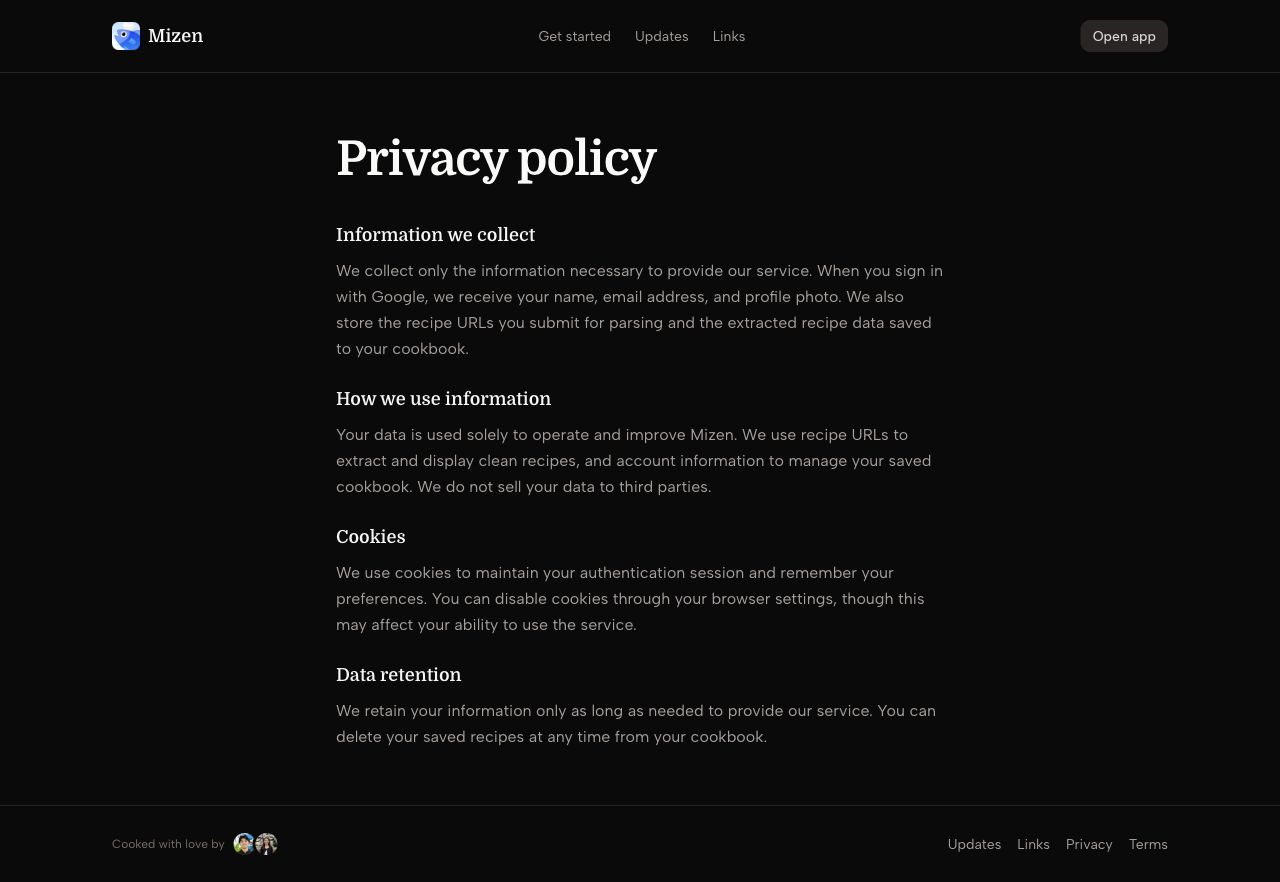
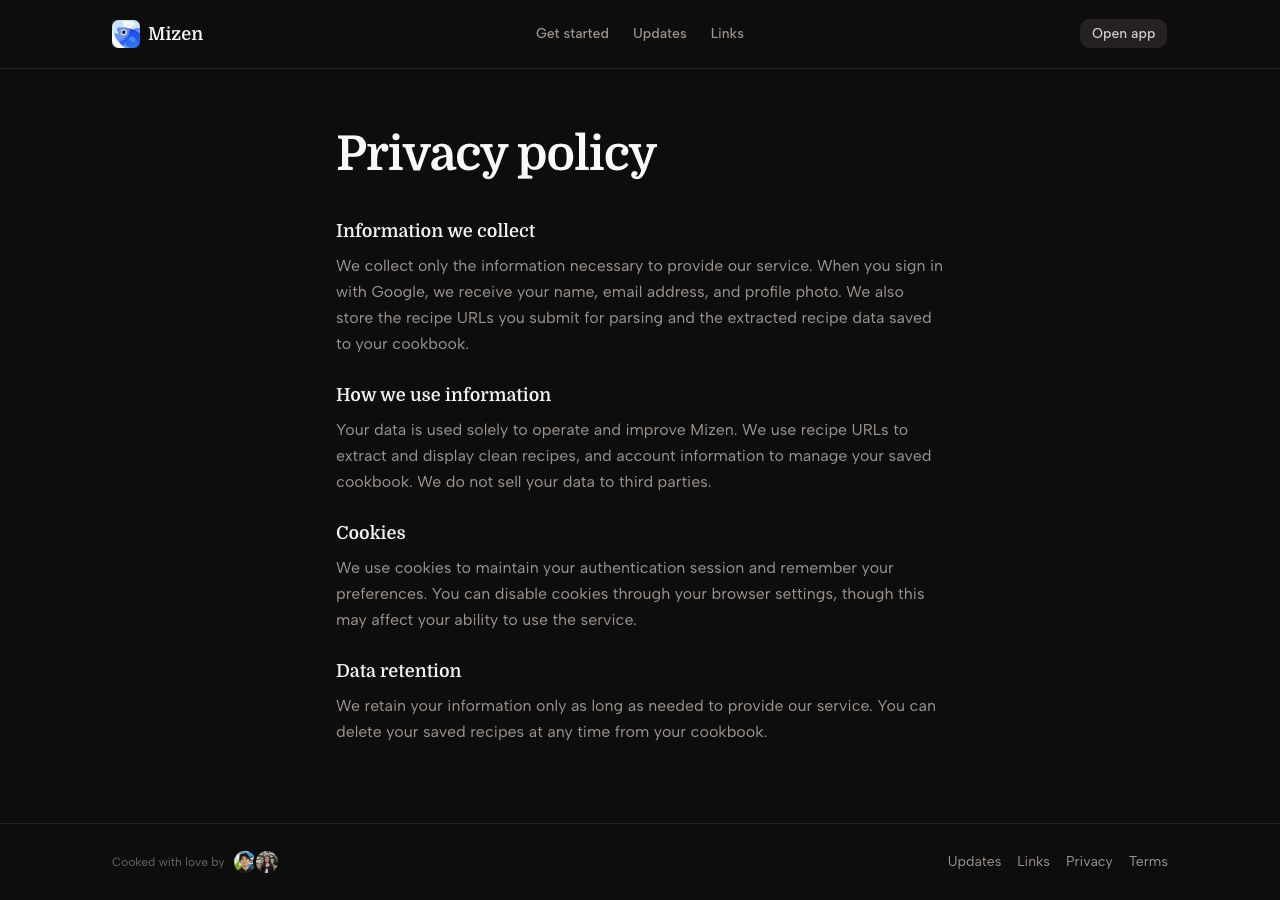
Keep public navigation stable between pages

diff --git a/src/components/PublicPage.tsx b/src/components/PublicPage.tsx
@@ -22,7 +22,7 @@ const publicNavigation = [
 export function PublicBrand() {
   return (
     <Link
-      href="/"
+      href="/homepage"
       className="flex shrink-0 items-center gap-2 rounded-md font-serif text-lg font-semibold text-stone-900 focus-visible:outline-2 focus-visible:outline-offset-4 focus-visible:outline-mizen-blue dark:text-stone-50 transition-none"
     >
       <Image
@@ -41,7 +41,7 @@ export function PublicPage({ children, className }: { children: ReactNode; class
   return (
     <div
       className={cn(
-        "landing-scroll flex min-h-screen min-w-0 flex-col bg-white text-stone-900 dark:bg-[var(--color-dark-surface)] dark:text-stone-100",
+        "landing-scroll flex min-h-0 min-w-0 flex-1 flex-col bg-white text-stone-900 dark:bg-[var(--color-dark-surface)] dark:text-stone-100",
         className
       )}
     >
@@ -63,13 +63,13 @@ export function PublicHeader({
         className={cn(
           publicPageContainer,
           publicPageWidths.wide,
-          "grid grid-cols-2 items-center gap-x-6 gap-y-4 py-4 sm:grid-cols-[auto_1fr_auto] sm:py-5"
+          "grid grid-cols-2 items-center gap-x-6 gap-y-4 py-4 sm:grid-cols-[minmax(0,1fr)_auto_minmax(0,1fr)] sm:py-5"
         )}
       >
         <PublicBrand />
         <nav
           aria-label="Public pages"
-          className="order-3 col-span-2 flex flex-wrap items-center gap-6 sm:order-none sm:col-span-1 sm:justify-center"
+          className="order-3 col-span-2 flex flex-wrap items-center gap-6 sm:order-none sm:col-span-1 font-medium sm:justify-center"
         >
           {publicNavigation.map(({ href, label }) => (
             <Link
@@ -78,17 +78,18 @@ export function PublicHeader({
               aria-current={currentPath === href ? "page" : undefined}
               className={cn(
                 publicLink,
-                currentPath === href && "font-medium text-stone-900 dark:text-stone-100"
+                currentPath === href && "text-stone-900 dark:text-stone-100"
               )}
             >
               {label}
             </Link>
           ))}
         </nav>
-        <div className="justify-self-end">
+        <div className="min-h-7 min-w-[88px] justify-self-end">
           {action ?? (
             <Link
               href="/"
+              prefetch={false}
               className="inline-flex rounded-lg bg-stone-100 px-3 py-1.5 font-sans text-sm font-medium text-stone-600 hover:bg-stone-200 focus-visible:outline-2 focus-visible:outline-offset-4 focus-visible:outline-mizen-blue dark:bg-stone-800 dark:text-stone-300 dark:hover:bg-stone-700 transition-none"
             >
               Open app

diff --git a/src/proxy.test.ts b/src/proxy.test.ts
@@ -2,6 +2,7 @@ import { describe, expect, it, vi, beforeEach } from "vitest";
 import { type NextRequest, NextResponse } from "next/server";
 import { proxy, shouldRedirectOAuthRootCallback } from "./proxy";
 import { updateSession } from "@/lib/supabase/middleware";
+import { PUBLIC_PAGE_PATHS } from "@/lib/public-pages";
 
 vi.mock("@/lib/supabase/middleware", () => ({
   updateSession: vi.fn(),
@@ -46,7 +47,7 @@ describe("shouldRedirectOAuthRootCallback", () => {
 });
 
 describe("proxy", () => {
-  it.each(["/privacy", "/terms", "/privacy?source=settings", "/terms?source=footer"])(
+  it.each(PUBLIC_PAGE_PATHS.flatMap((path) => [path, `${path}?source=navigation`]))(
     "serves %s without looking up a session",
     async (path) => {
       const response = await proxy(createRequest(`https://example.com${path}`) as never);
@@ -57,14 +58,18 @@ describe("proxy", () => {
     }
   );
 
-  it.each(["/privacy/private", "/terms-of-service", "/cookbook"])(
-    "keeps the session flow for %s",
-    async (path) => {
-      vi.mocked(updateSession).mockResolvedValue(NextResponse.next());
-      await proxy(createRequest(`https://example.com${path}`) as never);
-      expect(updateSession).toHaveBeenCalledOnce();
-    }
-  );
+  it.each([
+    "/privacy/private",
+    "/terms-of-service",
+    "/cookbook",
+    "/",
+    "/api/recipes",
+    "/auth/callback",
+  ])("keeps the session flow for %s", async (path) => {
+    vi.mocked(updateSession).mockResolvedValue(NextResponse.next());
+    await proxy(createRequest(`https://example.com${path}`) as never);
+    expect(updateSession).toHaveBeenCalledOnce();
+  });
 
   it("redirects root OAuth callback traffic to /auth/callback preserving query params", async () => {
     const request = createRequest("https://example.com/?code=abc&state=xyz");

diff --git a/src/app/(public)/get-started/page.tsx b/src/app/(public)/get-started/page.tsx
@@ -2,13 +2,10 @@
 
 import { useState } from "react";
 import Image from "next/image";
-import { BetaAuthModal } from "@/components/BetaAuthModal";
 import { ImageLightbox } from "@/components/ImageLightbox";
-import { LandingAuthCta } from "@/components/LandingAuthCta";
 import { ReleaseNotice } from "@/components/ReleaseNotice";
 import {
   PublicPage,
-  PublicHeader,
   PublicPageTitle,
   PublicFooter,
   publicPageContainer,
@@ -16,7 +13,6 @@ import {
 } from "@/components/PublicPage";
 import { cn } from "@/lib/utils";
 import { appVersion } from "@/lib/app-version";
-import { isSupabaseConfigured } from "@/lib/supabase/is-configured";
 
 const DISCORD_URL = "https://discord.gg/Pt4t8K8h9";
 const BEEF_UDON_URL = "https://www.justonecookbook.com/beef-udon/";
@@ -85,7 +81,6 @@ const steps = [
 ];
 
 function GetStartedPageContent() {
-  const [authOpen, setAuthOpen] = useState(false);
   const [copied, setCopied] = useState(false);
   const [lightbox, setLightbox] = useState<{
     src: string;
@@ -97,10 +92,6 @@ function GetStartedPageContent() {
   return (
     <>
       <PublicPage>
-        <PublicHeader
-          currentPath="/get-started"
-          action={<LandingAuthCta onSignIn={() => setAuthOpen(true)} />}
-        />
         <main className={cn(publicPageContainer, publicPageWidths.wide, "flex-1 py-10 sm:py-14")}>
           <section className="max-w-[720px]">
             <PublicPageTitle>Get started with Mizen</PublicPageTitle>
@@ -227,7 +218,6 @@ function GetStartedPageContent() {
         </PublicFooter>
       </PublicPage>
 
-      {isSupabaseConfigured && <BetaAuthModal open={authOpen} onOpenChange={setAuthOpen} />}
       {lightbox && (
         <ImageLightbox
           src={lightbox.src}

diff --git a/src/components/LinksPageContent.tsx b/src/components/LinksPageContent.tsx
@@ -6,11 +6,8 @@ import Link from "next/link";
 import { toast } from "sonner";
 import AltArrowRight from "@solar-icons/react/csr/arrows/AltArrowRight";
 import Plain from "@solar-icons/react/csr/messages/Plain";
-import { BetaAuthModal } from "@/components/BetaAuthModal";
-import { LandingAuthCta } from "@/components/LandingAuthCta";
 import {
   PublicPage,
-  PublicHeader,
   PublicPageTitle,
   PublicFooter,
   publicPageContainer,
@@ -18,7 +15,6 @@ import {
 } from "@/components/PublicPage";
 import { cn } from "@/lib/utils";
 import { favoriteRecipes } from "@/lib/favorite-recipes";
-import { isSupabaseConfigured } from "@/lib/supabase/is-configured";
 
 const connectCards = [
   {
@@ -42,7 +38,6 @@ const connectCards = [
 ];
 
 export function LinksPageContent() {
-  const [authOpen, setAuthOpen] = useState(false);
   const [email, setEmail] = useState("");
   const [submitting, setSubmitting] = useState(false);
   const [submitted, setSubmitted] = useState(false);
@@ -81,10 +76,6 @@ export function LinksPageContent() {
   return (
     <>
       <PublicPage>
-        <PublicHeader
-          currentPath="/links"
-          action={<LandingAuthCta onSignIn={() => setAuthOpen(true)} />}
-        />
         <main
           className={cn(publicPageContainer, publicPageWidths.compact, "flex-1 py-10 sm:py-14")}
         >
@@ -234,8 +225,6 @@ export function LinksPageContent() {
         </main>
         <PublicFooter />
       </PublicPage>
-
-      {isSupabaseConfigured && <BetaAuthModal open={authOpen} onOpenChange={setAuthOpen} />}
     </>
   );
 }

diff --git a/src/app/page.tsx b/src/app/page.tsx
@@ -439,7 +439,7 @@ export default function HomePage() {
   return <WaitlistLanding />;
 }
 
-export function WaitlistLanding() {
+export function WaitlistLanding({ showHeader = true }: { showHeader?: boolean }) {
   const [activeSource, setActiveSource] = useState(0);
   const [displayedSource, setDisplayedSource] = useState(0);
   const [displayedPreview, setDisplayedPreview] = useState(0);
@@ -542,11 +542,19 @@ export function WaitlistLanding() {
 
   return (
     <>
-      <PublicPage className="lg:h-screen lg:overflow-hidden">
-        <PublicHeader
-          currentPath="/"
-          action={<LandingAuthCta onSignIn={() => setAuthOpen(true)} />}
-        />
+      <PublicPage
+        className={
+          showHeader
+            ? "lg:h-screen lg:overflow-hidden"
+            : "lg:h-[calc(100dvh-69px)] lg:flex-none lg:overflow-hidden"
+        }
+      >
+        {showHeader && (
+          <PublicHeader
+            currentPath="/"
+            action={<LandingAuthCta onSignIn={() => setAuthOpen(true)} />}
+          />
+        )}
         <main className="flex min-h-0 flex-1 flex-col lg:flex-row">
           {/* Left panel */}
           <div className="relative flex flex-col justify-between lg:w-[38%] px-8 lg:px-12 xl:px-16 pt-12 lg:pt-5 pb-8 lg:pb-10 bg-white dark:bg-stone-950">

diff --git a/src/app/layout.tsx b/src/app/layout.tsx
@@ -3,6 +3,7 @@ import { Domine, Albert_Sans } from "next/font/google";
 import { Agentation } from "agentation";
 import { DialRoot } from "dialkit";
 import { AppShell } from "@/components/AppShell";
+import { PUBLIC_PAGE_PATHS } from "@/lib/public-pages";
 import { developerFeedbackToolsEnabled } from "@/lib/features";
 import { Toaster } from "@/components/ui/sonner";
 import { ThemeSync } from "@/components/ThemeSync";
@@ -54,7 +55,7 @@ export default function RootLayout({
         />
         <script
           dangerouslySetInnerHTML={{
-            __html: `(function(){try{if(location.pathname==='/privacy'||location.pathname==='/terms')return;if(localStorage.getItem('mizen:core-app-seen')==='true'&&sessionStorage.getItem('mizen:splash-seen')!=='true'){document.documentElement.dataset.earlySplash='true'}}catch(e){}})()`,
+            __html: `(function(){try{if(${JSON.stringify(PUBLIC_PAGE_PATHS)}.includes(location.pathname))return;if(localStorage.getItem('mizen:core-app-seen')==='true'&&sessionStorage.getItem('mizen:splash-seen')!=='true'){document.documentElement.dataset.earlySplash='true'}}catch(e){}})()`,
           }}
         />
       </head>

diff --git a/src/components/LandingAuthCta.tsx b/src/components/LandingAuthCta.tsx
@@ -18,7 +18,18 @@ export function LandingAuthCta({
 }: LandingAuthCtaProps) {
   const { user, loading } = useUser();
 
-  if (!isSupabaseConfigured || loading) return null;
+  if (!isSupabaseConfigured) return null;
+  if (loading) {
+    return (
+      <span
+        aria-hidden="true"
+        className={cn(
+          "inline-block h-8 w-[88px] rounded-lg bg-stone-100 dark:bg-stone-800",
+          className
+        )}
+      />
+    );
+  }
 
   const ctaClassName = cn(
     "px-3 py-1.5 rounded-lg bg-stone-100 dark:bg-stone-800 font-sans text-sm font-medium text-stone-600 dark:text-stone-300 hover:bg-stone-200 dark:hover:bg-stone-700 transition-none",
@@ -27,7 +38,7 @@ export function LandingAuthCta({
 
   if (user) {
     return (
-      <Link href="/" className={ctaClassName}>
+      <Link href="/" prefetch={false} className={ctaClassName}>
         {signedInLabel}
       </Link>
     );

diff --git a/src/proxy.ts b/src/proxy.ts
@@ -1,7 +1,7 @@
 import { type NextRequest } from "next/server";
 import { updateSession } from "@/lib/supabase/middleware";
 import { NextResponse } from "next/server";
-import { isPublicLegalPage } from "@/lib/public-legal-pages";
+import { isPublicPage } from "@/lib/public-pages";
 
 export function shouldRedirectOAuthRootCallback(request: Pick<NextRequest, "method" | "nextUrl">) {
   return (
@@ -21,8 +21,8 @@ export async function proxy(request: NextRequest) {
     return NextResponse.redirect(url);
   }
 
-  // Legal documents are public and do not need a session refresh.
-  if (isPublicLegalPage(request.nextUrl.pathname)) return NextResponse.next();
+  // Standalone public pages do not read protected data or need a session refresh.
+  if (isPublicPage(request.nextUrl.pathname)) return NextResponse.next();
 
   return await updateSession(request);
 }

diff --git a/src/components/AppShell.test.tsx b/src/components/AppShell.test.tsx
@@ -2,6 +2,7 @@ import React from "react";
 import { renderToStaticMarkup } from "react-dom/server";
 import { describe, expect, it, vi } from "vitest";
 import { AppShell } from "./AppShell";
+import { PUBLIC_PAGE_PATHS } from "@/lib/public-pages";
 
 const { route, useUser } = vi.hoisted(() => ({
   route: { pathname: "/privacy" },
@@ -24,7 +25,7 @@ vi.mock("@/components/SearchCommandModal", () => ({ SearchCommandModal: () => nu
 vi.mock("@/components/SplashScreen", () => ({ SplashScreen: () => null }));
 
 describe("public legal pages", () => {
-  it.each(["/privacy", "/terms"])("renders %s outside the session and recipe flow", (pathname) => {
+  it.each(PUBLIC_PAGE_PATHS)("renders %s outside the session and recipe flow", (pathname) => {
     route.pathname = pathname;
     const html = renderToStaticMarkup(
       <AppShell>

diff --git a/src/components/AppShell.tsx b/src/components/AppShell.tsx
@@ -10,7 +10,7 @@ import { MobileScreenTransition } from "@/components/MobileScreenTransition";
 import { SearchCommandModal } from "@/components/SearchCommandModal";
 import { SplashScreen } from "@/components/SplashScreen";
 import { cn } from "@/lib/utils";
-import { isPublicLegalPage } from "@/lib/public-legal-pages";
+import { isPublicPage } from "@/lib/public-pages";
 import SidebarMinimalistic from "@solar-icons/react/csr/it/SidebarMinimalistic";
 import type { ReactNode } from "react";
 
@@ -33,7 +33,7 @@ export function useSidebar(): SidebarContextValue {
 
 export function AppShell({ children }: { children: ReactNode }) {
   const pathname = usePathname();
-  if (isPublicLegalPage(pathname)) return children;
+  if (isPublicPage(pathname)) return children;
 
   return <SessionAppShell>{children}</SessionAppShell>;
 }

diff --git a/src/components/PublicSiteHeader.tsx b/src/components/PublicSiteHeader.tsx
@@ -1,0 +1,23 @@
+"use client";
+
+import { useState } from "react";
+import { usePathname } from "next/navigation";
+import { PublicHeader } from "@/components/PublicPage";
+import { LandingAuthCta } from "@/components/LandingAuthCta";
+import { BetaAuthModal } from "@/components/BetaAuthModal";
+import { isSupabaseConfigured } from "@/lib/supabase/is-configured";
+
+export function PublicSiteHeader() {
+  const pathname = usePathname();
+  const [authOpen, setAuthOpen] = useState(false);
+
+  return (
+    <>
+      <PublicHeader
+        currentPath={pathname}
+        action={<LandingAuthCta onSignIn={() => setAuthOpen(true)} />}
+      />
+      {isSupabaseConfigured && <BetaAuthModal open={authOpen} onOpenChange={setAuthOpen} />}
+    </>
+  );
+}

diff --git a/src/app/(public)/changelog/page.tsx b/src/app/(public)/changelog/page.tsx
@@ -1,7 +1,6 @@
 import Image from "next/image";
 import {
   PublicPage,
-  PublicHeader,
   PublicPageTitle,
   PublicFooter,
   publicPageContainer,
@@ -20,7 +19,6 @@ export const metadata: Metadata = {
 export default function ChangelogPage() {
   return (
     <PublicPage>
-      <PublicHeader currentPath="/changelog" />
       <main className={cn(publicPageContainer, publicPageWidths.wide, "flex-1 py-10 sm:py-14")}>
         <section className="grid gap-8 pb-12 md:grid-cols-[minmax(0,0.82fr)_minmax(280px,0.55fr)] md:items-end lg:pb-16">
           <div className="max-w-2xl">
